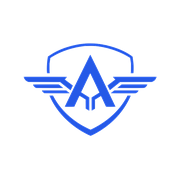
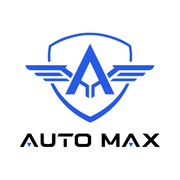
Телефондағы белгіше: логотип + «AUTO MAX» жазуы; Android maskable белгіше
Claude-Session: https://claude.ai/code/session_01CpM4Ja8mxPfbdDc3APJghD

Changed region(s): [[0.1111, 0.1667, 0.8889, 0.8333]]

diff --git a/src/app/manifest.ts b/src/app/manifest.ts
@@ -16,7 +16,7 @@ export default function manifest(): MetadataRoute.Manifest {
     icons: [
       { src: "/icon-192.png", sizes: "192x192", type: "image/png" },
       { src: "/icon-512.png", sizes: "512x512", type: "image/png" },
-      { src: "/icon-512.png", sizes: "512x512", type: "image/png", purpose: "maskable" },
+      { src: "/icon-maskable-512.png", sizes: "512x512", type: "image/png", purpose: "maskable" },
     ],
   };
 }

diff --git a/docs/PROGRESS.md b/docs/PROGRESS.md
@@ -24,6 +24,13 @@
 
 ## Журнал (жаңасы — жоғарыда)
 
+### 2026-11-20 — Телефондағы белгіше: логотип + «AUTO MAX» (aidnaiagoz, Claude)
+
+- CEO: iPhone экранында белгіше тек логотип болып тұр (iOS үлкен белгіше режимінде қолданба атын жасырады) — атауы да көрінсін.
+- `public/apple-touch-icon.png`, `icon-192.png`, `icon-512.png` жаңартылды: қалқан логотипі + астында «AUTO MAX» (ақ фон).
+  Android үшін бөлек `icon-maskable-512.png` (дөңгелек қиылса да кесілмейтін шеткі бос орын), `manifest.ts` соған сілтейді.
+- ⚠ Бұрын «На экран Домой» қосылған белгіше өзі өзгермейді — оны өшіріп, сайтты Safari-дан қайта қосу керек.
+
 ### 2026-11-19 — Продажи: қайталанған жол енді өзі түзеледі (aidnaiagoz, Claude)
 
 CEO: «бұл қате қайталанбайтындай амал тап». Қорғаныс енді екі қабатты:
